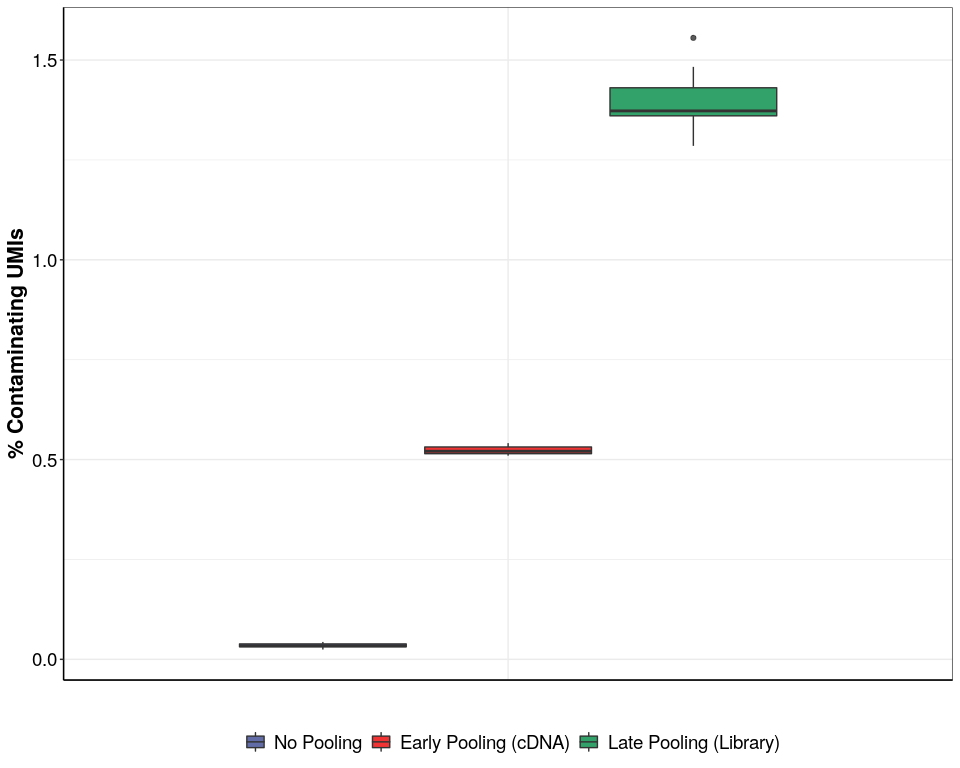
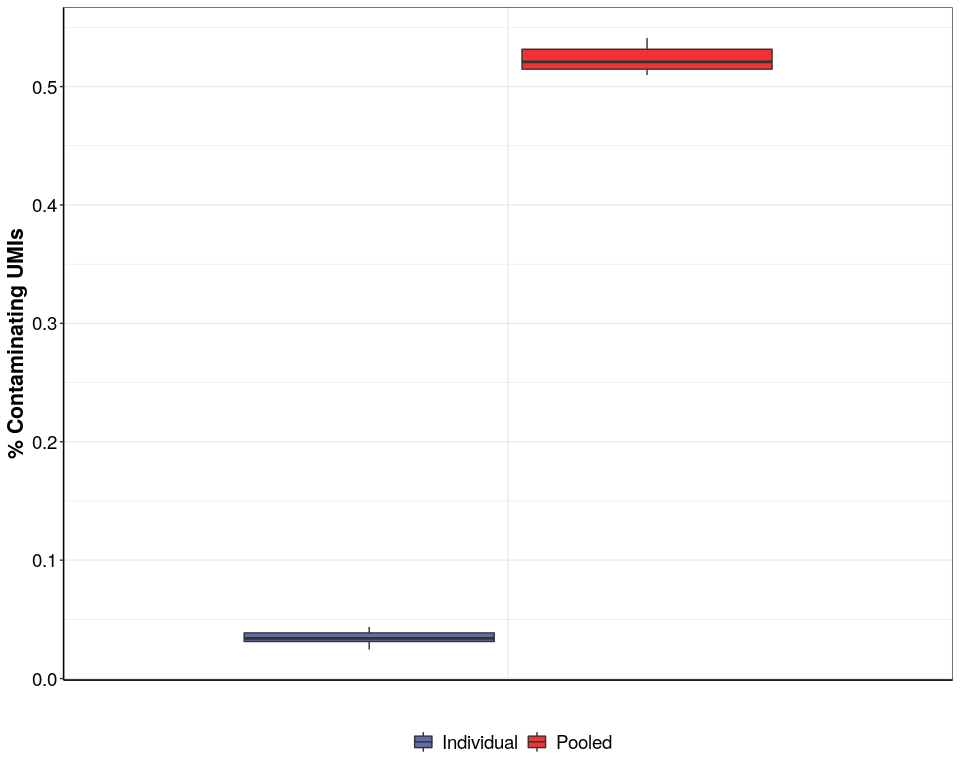
update cross cont script

diff --git a/6_additional_analysis/prime-seq_rev_CrossCont2.md b/6_additional_analysis/prime-seq_rev_CrossCont2.md
@@ -196,7 +196,7 @@ coding_mouse<-biotype_mouse %>%
 ```
 
 ``` r
-dge_list<-readRDS(paste0(fig_path, "/SM2_nomult.dgecounts.rds"))
+dge_list<-readRDS("/data/share/htp/prime-seq_Paper/Fig_CrossCont/zUMIs/SM2_nomulti/zUMIs_output/expression/SM2_nomult.dgecounts.rds")
 ## add ERCCs to coding genes
 coding<-c(coding_human$ensembl_gene_id,coding_mouse$ensembl_gene_id,grep(rownames(dge_list$umicount$exon$all),
                                                                          pattern = "^ERCC-",
@@ -298,7 +298,8 @@ count_df_inf2<-count_df_inf %>%
          perc_contamination_gene=if_else(Species=="Human",perc_mouse_Gene,100-perc_mouse_Gene),
          nGene_cont=if_else(Species=="Human",nGene_m,nGene_h),
          nGene_endo=nGene_total-nGene_cont) %>% 
-  filter(Species=="Human")
+  filter(Species=="Human") %>% 
+  filter()
 
 
 c<-ggplot(data=count_df_inf2,aes(y=perc_contamination,x=Condition2,colour=Species))+
@@ -322,7 +323,7 @@ mean_nomix<-count_df_inf2 %>%
   group_by(Condition2,Species) %>% 
   summarise(average_cont=mean(perc_contamination))
 
-d<-ggplot(data=subset(count_df_inf2,Species=="Human"),aes(y=perc_contamination,x=Condition2,fill=Condition2,col=Condition2))+
+d<-ggplot(data=count_df_inf2,aes(y=perc_contamination,x=Condition2,fill=Condition2,col=Condition2))+
   geom_hline(data=mean_nomix,aes(yintercept =average_cont),linetype="dashed")+
   geom_boxplot(alpha = 0.8)+
   #geom_errorbar(aes(group=paste(Species,Pool_type),ymin=mean(perc_contamination),ymax=mean(perc_contamination)))+
@@ -361,9 +362,11 @@ count_df_inf2 %>%
 
 ``` r
 
-count_df_inf2 %>% 
-  filter(Condition2%in%c("new_exo","No_mix","NEB_Next")) %>% 
-  ggplot(aes(y=perc_contamination,x=Species,fill=Condition2))+
+condition_final<-count_df_inf2 %>% 
+  filter(Condition2%in%c("new_exo","No_mix")) 
+  
+  
+  ggplot(condition_final,aes(y=perc_contamination,x=Species,fill=Condition2))+
   geom_boxplot(alpha = 0.8)+
   ylab("% Contaminating UMIs")+
   xlab("")+
@@ -371,28 +374,27 @@ count_df_inf2 %>%
   theme(legend.position="bottom",
         axis.text.x = element_blank(),
         axis.ticks.x = element_blank())+
-  scale_fill_aaas(breaks = c("No_mix", "new_exo","NEB_Next"),
-                        labels = c("No Pooling", "Early Pooling (cDNA)","Late Pooling (Library)"))
+  scale_fill_aaas(breaks = c("No_mix", "new_exo"),
+                        labels = c("Individual", "Pooled"))
 ```
 
 ![](prime-seq_rev_CrossCont2_files/figure-gfm/unnamed-chunk-7-4.png)<!-- -->
 
 ``` r
 
-p.cont<-count_df_inf2 %>% 
-  filter(Condition2%in%c("new_exo","No_mix","NEB_Next")) %>% 
-  ggplot(aes(y=perc_contamination,x=Condition2,col=Condition2))+
+p.cont<-  ggplot(condition_final,aes(y=perc_contamination,x=Condition2,col=Condition2))+
   stat_summary(alpha = 0.8,show.legend = F,fun = "median",geom = "crossbar",width=0.5)+
   ggbeeswarm::geom_beeswarm(show.legend=F,col="grey50")+
   ylab("Contaminating UMIs")+
   xlab("")+
   labs(fill="",col="")+
-  scale_x_discrete(breaks = c("No_mix", "new_exo","NEB_Next"),
-                        labels = c("No Pooling", "Early Pooling\n (cDNA)","Late Pooling \n (Library)"))+
-  scale_colour_manual(breaks = c("No_mix", "new_exo","NEB_Next"),
-                        labels = c("No Pooling", "Early Pooling (cDNA)","Late Pooling (Library)"),
+  scale_x_discrete(breaks = c("No_mix", "new_exo"),
+                        labels = c("Individual", "Pooled"))+
+  scale_colour_manual(breaks = c("No_mix", "new_exo"),
+                        labels = c("Individual", "Pooled"),
                       values = c("#82B0D7","#458C77","#6B4E71"))+
-  scale_y_continuous(labels = paste0(c(0.0,0.5,1.0,1.5),"%"))
+  scale_y_continuous(breaks=c(0.0,0.1,0.2,0.3,0.4,0.5),
+                     labels = paste0(c(0.0,0.1,0.2,0.3,0.4,0.5),"%"))
   
 
 p.cont
